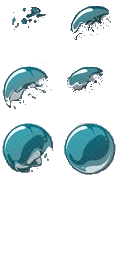
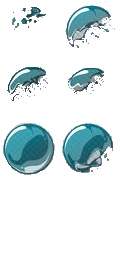
dimensiones
se corrige el tamaño de las dimensiones

diff --git a/burbujas.js b/burbujas.js
@@ -7,7 +7,7 @@ var loadedGoogleCount = 0;
 var gFontsUpdateCacheList = [];
 var tFontsUpdateCacheList = [];
 lib.ssMetadata = [
-		{name:"burbujas_atlas_", frames: [[61,122,58,54],[0,123,56,51],[0,61,59,60],[63,0,60,59],[61,61,59,59],[0,0,61,59]]}
+		{name:"burbujas_atlas_", frames: [[0,122,58,54],[60,123,56,51],[63,0,59,60],[0,61,60,59],[62,62,59,59],[0,0,61,59]]}
 ];
 
 
@@ -225,50 +225,74 @@ p.nominalBounds = new cjs.Rectangle(-28,-28,58,54);
 	// Actions
 	this.instance = new lib.burbujas_1();
 	this.instance.parent = this;
-	this.instance.setTransform(303.4,445.5,2.704,2.704,0,0,0,1.2,-0.8);
+	this.instance.setTransform(1312.2,559.5,2.526,2.526,0,0,0,1.1,-0.9);
 
 	this.instance_1 = new lib.burbujas_1();
 	this.instance_1.parent = this;
-	this.instance_1.setTransform(690.2,553.7,1,1,0,0,0,1,-1);
+	this.instance_1.setTransform(1282.6,340.2,1,1,0,0,0,1,-1);
 
 	this.instance_2 = new lib.burbujas_1();
 	this.instance_2.parent = this;
-	this.instance_2.setTransform(99,119.1,1,1,0,0,0,1,-1);
+	this.instance_2.setTransform(1149.7,508.4,1,1,0,0,0,1,-1);
 
 	this.instance_3 = new lib.burbujas_1();
 	this.instance_3.parent = this;
-	this.instance_3.setTransform(909.5,262.1,1,1,0,0,0,1,-1);
+	this.instance_3.setTransform(1100.8,350.2,2.257,2.257,0,0,0,1,-0.9);
 
 	this.instance_4 = new lib.burbujas_1();
 	this.instance_4.parent = this;
-	this.instance_4.setTransform(762.5,424.9,2.448,2.448,0,0,0,1.1,-1);
+	this.instance_4.setTransform(1347.8,143.6,3.776,3.776,180,0,0,1.1,-1.1);
 
 	this.instance_5 = new lib.burbujas_1();
 	this.instance_5.parent = this;
-	this.instance_5.setTransform(663.1,208.1,1,1,0,0,0,1,-1);
+	this.instance_5.setTransform(1116.4,142.8,1,1,0,0,0,1,-1);
 
-	this.timeline.addTween(cjs.Tween.get({}).to({state:[{t:this.instance_5},{t:this.instance_4},{t:this.instance_3},{t:this.instance_2},{t:this.instance_1},{t:this.instance}]}).wait(1));
-
-	// Capa 1
 	this.instance_6 = new lib.burbujas_1();
 	this.instance_6.parent = this;
-	this.instance_6.setTransform(477.6,636.2,1,1,0,0,0,1,-1);
+	this.instance_6.setTransform(354.2,418.6,2.704,2.704,0,0,0,1.2,-0.8);
 
 	this.instance_7 = new lib.burbujas_1();
 	this.instance_7.parent = this;
-	this.instance_7.setTransform(510,287.5,1,1,0,0,0,1,-1);
+	this.instance_7.setTransform(690.2,553.7,1,1,0,0,0,1,-1);
+
+	this.instance_8 = new lib.burbujas_1();
+	this.instance_8.parent = this;
+	this.instance_8.setTransform(99,119.1,1,1,0,0,0,1,-1);
+
+	this.instance_9 = new lib.burbujas_1();
+	this.instance_9.parent = this;
+	this.instance_9.setTransform(909.5,262.1,1,1,0,0,0,1,-1);
+
+	this.instance_10 = new lib.burbujas_1();
+	this.instance_10.parent = this;
+	this.instance_10.setTransform(762.5,424.9,2.448,2.448,0,0,0,1.1,-1);
+
+	this.instance_11 = new lib.burbujas_1();
+	this.instance_11.parent = this;
+	this.instance_11.setTransform(109.8,413.4,1,1,0,0,0,1,-1);
+
+	this.timeline.addTween(cjs.Tween.get({}).to({state:[{t:this.instance_11},{t:this.instance_10},{t:this.instance_9},{t:this.instance_8},{t:this.instance_7},{t:this.instance_6},{t:this.instance_5},{t:this.instance_4},{t:this.instance_3},{t:this.instance_2},{t:this.instance_1},{t:this.instance}]}).wait(1));
+
+	// Capa 1
+	this.instance_12 = new lib.burbujas_1();
+	this.instance_12.parent = this;
+	this.instance_12.setTransform(477.6,636.2,1,1,0,0,0,1,-1);
+
+	this.instance_13 = new lib.burbujas_1();
+	this.instance_13.parent = this;
+	this.instance_13.setTransform(419.6,208.1,1,1,0,0,0,1,-1);
 
 	this.burbuja1 = new lib.burbujas_1();
 	this.burbuja1.parent = this;
 	this.burbuja1.setTransform(569.2,80.9,2.085,2.085,0,0,0,-1.1,-1);
 
-	this.timeline.addTween(cjs.Tween.get({}).to({state:[{t:this.burbuja1},{t:this.instance_7},{t:this.instance_6}]}).wait(1));
+	this.timeline.addTween(cjs.Tween.get({}).to({state:[{t:this.burbuja1},{t:this.instance_13},{t:this.instance_12}]}).wait(1));
 
 }).prototype = p = new cjs.MovieClip();
-p.nominalBounds = new cjs.Rectangle(710,384.6,868.5,638.6);
+p.nominalBounds = new cjs.Rectangle(810,384.6,1387.7,638.6);
 // library properties:
 lib.properties = {
-	width: 1280,
+	width: 1480,
 	height: 720,
 	fps: 24,
 	color: "#66FFFF",

diff --git a/burbujas.html b/burbujas.html
@@ -89,11 +89,11 @@ function handleComplete(evt) {
 <!-- write your code here -->
 </head>
 <body onload="init();" style="margin:0px;">
-	<div id="animation_container" style="background-color:rgba(102, 255, 255, 1.00); width:1280px; height:720px">
-		<canvas id="canvas" width="1280" height="720" style="position: absolute; display: none; background-color:rgba(102, 255, 255, 1.00);"></canvas>
-		<div id="dom_overlay_container" style="pointer-events:none; overflow:hidden; width:1280px; height:720px; position: absolute; left: 0px; top: 0px; display: none;">
+	<div id="animation_container" style="background-color:rgba(102, 255, 255, 1.00); width:1480px; height:720px">
+		<canvas id="canvas" width="1480" height="720" style="position: absolute; display: none; background-color:rgba(102, 255, 255, 1.00);"></canvas>
+		<div id="dom_overlay_container" style="pointer-events:none; overflow:hidden; width:1480px; height:720px; position: absolute; left: 0px; top: 0px; display: none;">
 		</div>
 	</div>
-    <div id='_preload_div_' style='display: inline-block; height:720px; width: 1280px; vertical-align=middle;position:absolute;left:0px;top:0px;text-align: center;'>	<span style='display: inline-block; height: 100%; vertical-align: middle;'></span>	<img src=images/_preloader.gif style='vertical-align: middle; max-height: 100%'/></div>
+    <div id='_preload_div_' style='display: inline-block; height:720px; width: 1480px; vertical-align=middle;position:absolute;left:0px;top:0px;text-align: center;'>	<span style='display: inline-block; height: 100%; vertical-align: middle;'></span>	<img src=images/_preloader.gif style='vertical-align: middle; max-height: 100%'/></div>
 </body>
 </html>
